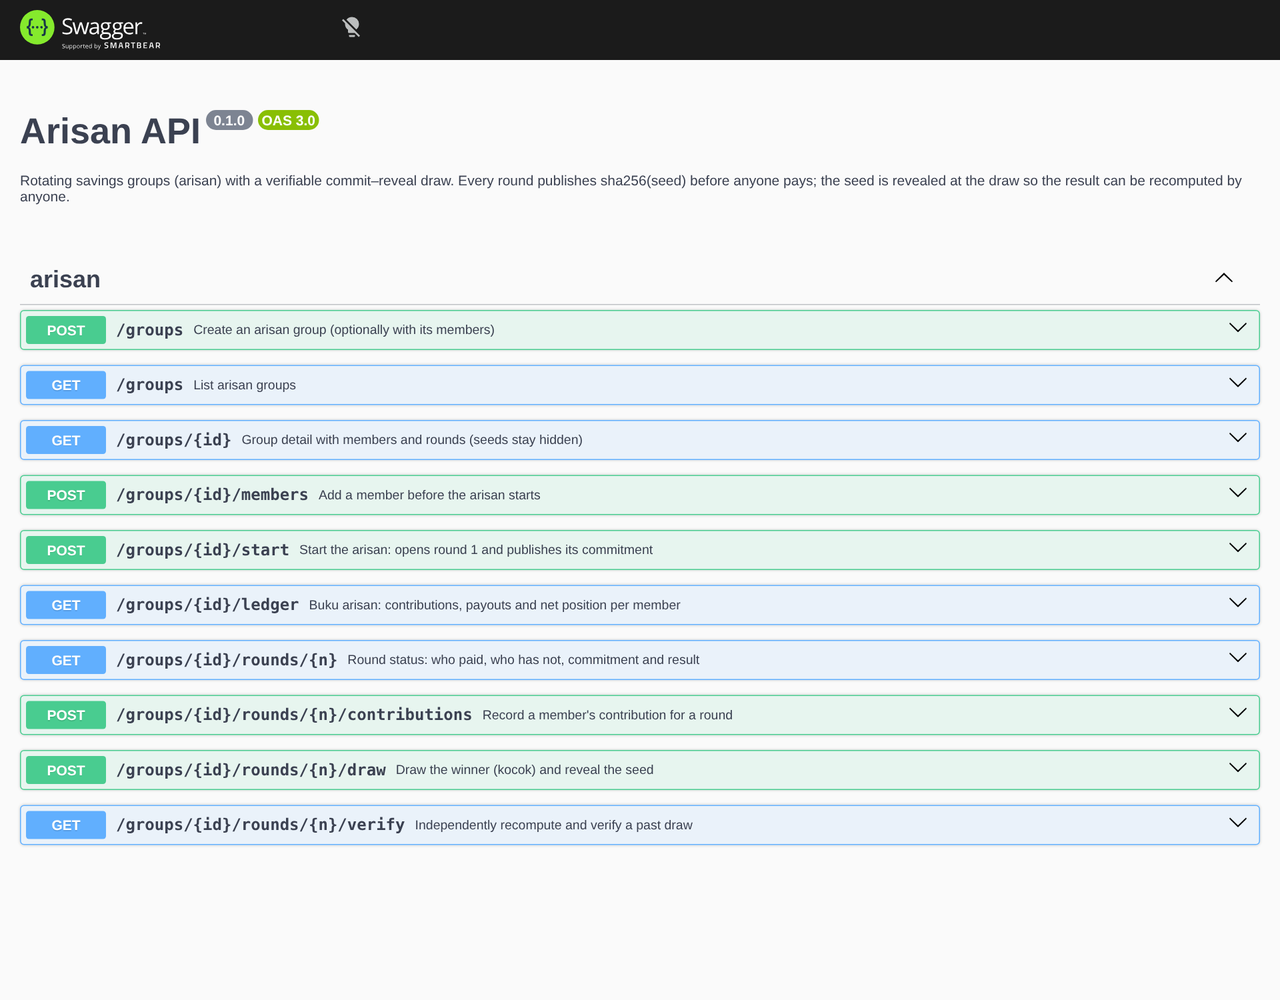
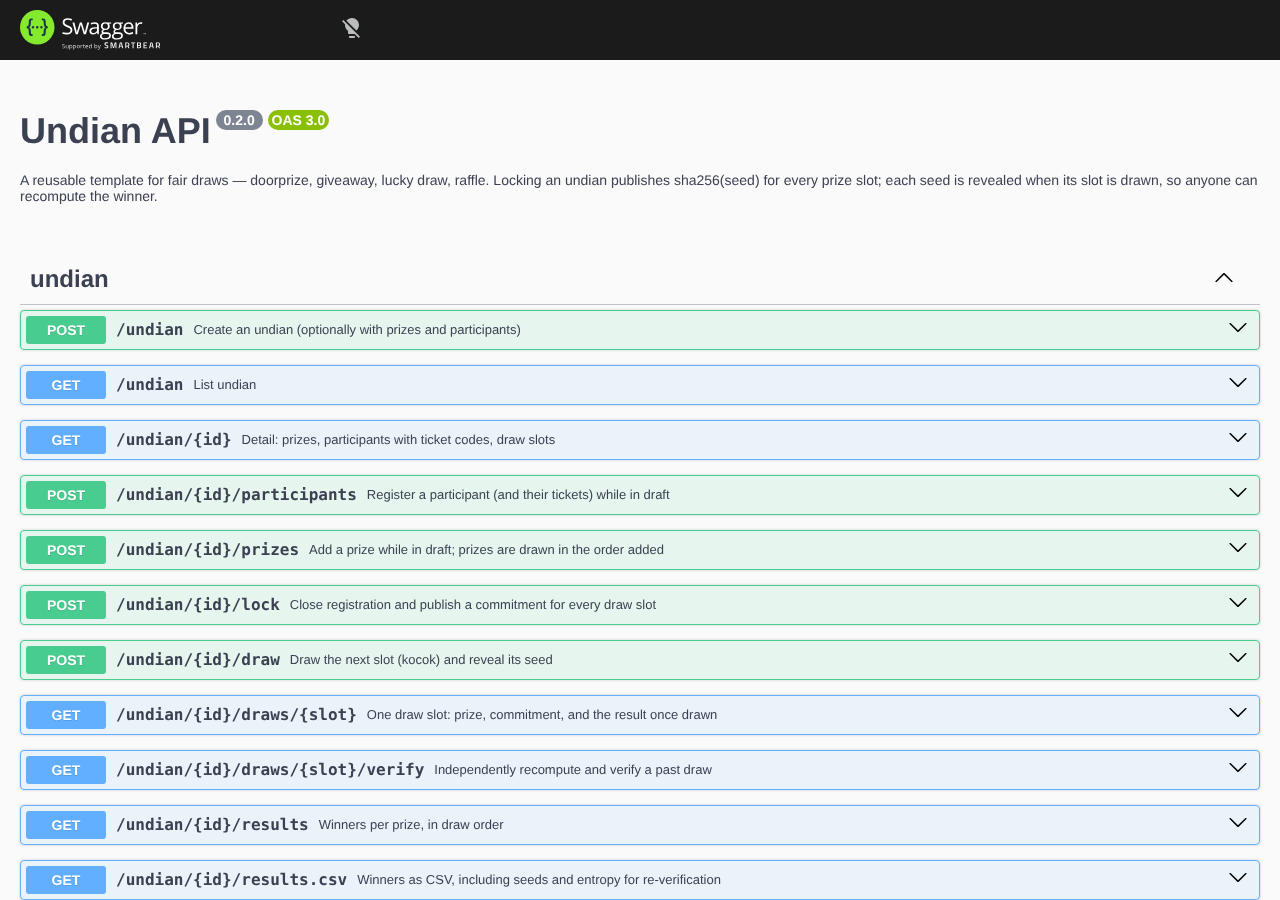
docs: README and roadmap for the undian template, new Swagger screenshot

Changed region(s): [[0.0, 0.0, 1.0, 1.0]]

diff --git a/README.md b/README.md
@@ -1,39 +1,61 @@
-# arisan
+# undian
 
-**A REST API for *arisan* — Indonesian rotating savings groups — with a draw anyone can verify.**
+**A ready-to-use template for fair draws: doorprizes, giveaways, lucky draws and raffles.
+Anyone can check the result afterwards.**
 
-In an arisan, every member pays the same amount each round and one member takes the whole pot,
-until everybody has won exactly once. The weak spot has always been the *kocok* (the draw):
-names on rolled-up paper in a glass, run by the organiser. `arisan` keeps the books and makes
-the draw **provably fair** with a commit–reveal scheme.
+Every *undian* has the same weak spot: the draw itself. Rolled-up papers in a jar, a spinning wheel
+on someone's laptop, "the system picked it". `undian` is a small REST API you can fork for any
+event. It keeps the prizes, participants and tickets, and it makes every draw **provably fair**
+with a commit–reveal scheme.
 
 ![Swagger UI](docs/swagger.png)
 
 ## How the fair draw works
 
 ```
-round opens   server picks a random 256-bit seed, publishes only  commitment = sha256(seed)
-members pay   nobody can change the seed any more — the commitment is public
-draw          members supply public entropy (e.g. numbers shouted at the meeting)
-              digest  = HMAC-SHA256(key = seed, "arisan-v1|round|entropy|sorted eligible ids|attempt")
-              index   = first 64 bits of digest mod #eligible   (rejection sampling → no modulo bias)
-              winner  = eligible[index]; seed is revealed
-verify        anyone checks sha256(seed) == commitment and recomputes the winner
+lock        registration closes. One prize unit = one draw slot.
+            For every slot the server picks a random 256-bit seed and publishes only
+            commitment = sha256(seed). From now on nobody can change the seeds.
+draw        the audience supplies public entropy, e.g. numbers shouted in the room
+            digest = HMAC-SHA256(key = seed, "undian-v1|slot|entropy|sorted ticket codes|attempt")
+            index  = first 64 bits of digest mod #eligible tickets   (rejection sampling, so no modulo bias)
+            winner = tickets[index]; this slot's seed is revealed
+verify      anyone checks sha256(seed) == commitment and recomputes the winner
 ```
 
-The organiser can't pick the winner (the seed was fixed before the entropy was known), and the
-members can't either (they don't know the seed). `GET /groups/:id/rounds/:n/verify` returns every
-input and intermediate value; the e2e test recomputes a draw with nothing but `node:crypto`.
+The organiser can't pick the winner, because the seed was fixed before the entropy was known.
+The audience can't pick it either, because they don't know the seed. Every slot has its own seed,
+so revealing one draw tells nobody anything about the next one.
+`GET /undian/:id/draws/:slot/verify` returns every input and intermediate value. The e2e test
+recomputes a draw using nothing but `node:crypto`.
 
 ## Features
 
-- Groups with weekly or monthly rounds (month-end aware: 31 Jan → 28 Feb → 31 Mar) and an optional organiser fee.
-- Contributions per round; the draw is refused until everyone has paid (`409` lists who hasn't).
-- Each member wins exactly once; the group finishes automatically after the last round.
-- **Buku arisan** ledger: contributed, received, net position and what is still owed, per member.
-- Validation with **Zod**; the same schemas generate the **OpenAPI** docs at `/docs`.
-- Real Postgres semantics (constraints, enums, transactions, `SELECT … FOR UPDATE`) via **PGlite**,
-  Postgres compiled to WebAssembly — no database server to install, in-memory for tests, on disk in dev.
+- **Prizes in draw order.** Each prize can have a quantity (e.g. 3× voucher). Small prizes usually go first and the grand prize last.
+- **Tickets.** A participant can hold several tickets (`tickets: 3` gives 3× the chance).
+  Codes are sequential with a prefix you choose: `T0001`, `DP0042`, …
+- **One prize per person** by default. Set `allowMultipleWins: true` for giveaways where every ticket counts.
+- **Lock** checks that the draw can finish: you need at least as many participants (or tickets) as prize units.
+- **Results** come as JSON per prize, or as **CSV** with the seed and entropy of every draw,
+  so the results sheet can be re-verified offline.
+- **Cek nomor undian:** `GET /undian/:id/tickets/:code` shows who owns a ticket and what it won.
+- Input is validated with **Zod**, and the same schemas generate the **OpenAPI** docs at `/docs`.
+- The database is **PGlite**, Postgres compiled to WebAssembly, so you get real Postgres
+  constraints, enums, transactions and `SELECT … FOR UPDATE` without installing a database
+  server. It runs in memory for tests and on disk in dev.
+
+## Use it as a template
+
+| Event | Settings |
+|---|---|
+| Doorprize at a 17 Agustus / office party | default: one prize per person, 1 ticket each |
+| Giveaway on social media | `allowMultipleWins: true`, tickets = number of valid entries |
+| Lucky draw for customers | `ticketPrefix: "LD"`, tickets = number of purchases |
+| Arisan (who gets the pot this round) | one prize of quantity 1 per meeting, members as participants |
+
+To make it your own, start with the names and texts in `src/bootstrap.ts` and the defaults in
+`src/undian/dto.ts`. The draw (`src/draw/draw.ts`) is pure and has no I/O, so you can reuse it
+anywhere.
 
 ## Stack
 
@@ -41,14 +63,13 @@ NestJS 11 · Drizzle ORM · PGlite · Zod 4 · Swagger · Jest + Supertest · Bi
 
 ```
 src/
-├── draw/draw.ts            commit–reveal draw, unbiased index, verification (pure, no I/O)
-├── common/schedule.ts      due dates, payout & fee
-├── common/zod.pipe.ts      Zod validation pipe + Zod → OpenAPI
-├── db/schema.ts            Drizzle schema (groups, members, rounds, contributions)
-├── db/database.module.ts   PGlite + migrations as a Nest provider
-└── groups/                 controller, service, DTO schemas
-drizzle/                    generated SQL migrations
-test/arisan.e2e-spec.ts     full arisan lifecycle over HTTP against in-memory Postgres
+├── draw/draw.ts              commit–reveal draw, unbiased index, verification (pure, no I/O)
+├── common/zod.pipe.ts        Zod validation pipe + Zod → OpenAPI
+├── db/schema.ts              Drizzle schema (undian, participants, tickets, prizes, draws)
+├── db/database.module.ts     PGlite + migrations as a Nest provider
+└── undian/                   controller, service, DTO schemas, CSV export
+drizzle/                      generated SQL migrations
+test/undian.e2e-spec.ts       full doorprize lifecycle over HTTP against in-memory Postgres
 ```
 
 ## Run
@@ -56,29 +77,36 @@ test/arisan.e2e-spec.ts     full arisan lifecycle over HTTP against in-memory Po
 ```bash
 npm install
 npm run dev        # http://localhost:3000, Swagger at /docs, data in ./data/pglite
-npm run demo       # in another terminal: creates a group, collects, draws and verifies two rounds
-npm test           # 20 tests (unit + e2e)
+npm run demo       # in another terminal: creates a doorprize, locks it, draws and verifies every prize
+npm test           # 21 tests (unit + e2e)
 ```
 
 Example:
 
 ```bash
-curl -X POST localhost:3000/groups -H 'content-type: application/json' -d '{
-  "name": "Arisan PKK RT 05", "contribution": 100000, "frequency": "monthly", "adminFeePct": 2.5,
-  "members": [{"name": "Bu Sri"}, {"name": "Bu Ani"}, {"name": "Pak Budi"}]
+curl -X POST localhost:3000/undian -H 'content-type: application/json' -d '{
+  "name": "Doorprize 17 Agustus RT 05",
+  "prizes": [{"name": "Payung", "quantity": 2}, {"name": "Sepeda"}],
+  "participants": [{"name": "Bu Sri"}, {"name": "Pak Budi", "tickets": 2}, {"name": "Mbak Rina"}]
 }'
 ```
 
 | Method | Path | |
 |---|---|---|
-| `POST` | `/groups` | create group (+ members) |
-| `POST` | `/groups/:id/members` | add member (before start) |
-| `POST` | `/groups/:id/start` | start, open round 1, publish commitment |
-| `GET` | `/groups/:id/rounds/:n` | paid / unpaid, commitment, result |
-| `POST` | `/groups/:id/rounds/:n/contributions` | record payment |
-| `POST` | `/groups/:id/rounds/:n/draw` | draw winner, reveal seed, open next round |
-| `GET` | `/groups/:id/rounds/:n/verify` | recompute & verify |
-| `GET` | `/groups/:id/ledger` | buku arisan |
+| `POST` | `/undian` | create (+ prizes, participants) |
+| `POST` | `/undian/:id/participants` | register participant + tickets (draft only) |
+| `POST` | `/undian/:id/prizes` | add prize (draft only) |
+| `POST` | `/undian/:id/lock` | close registration, publish commitments |
+| `POST` | `/undian/:id/draw` | draw the next slot, reveal its seed |
+| `GET` | `/undian/:id/draws/:slot` | one slot: prize, commitment, result |
+| `GET` | `/undian/:id/draws/:slot/verify` | recompute & verify |
+| `GET` | `/undian/:id/results` · `results.csv` | winners per prize |
+| `GET` | `/undian/:id/tickets/:code` | cek nomor undian |
+
+## History
+
+This project started as `arisan`, an API for rotating savings groups. The draw turned out to be the
+interesting part, so it was generalised into a template for any undian (v0.2.0).
 
 See [ROADMAP.md](ROADMAP.md).
 

diff --git a/ROADMAP.md b/ROADMAP.md
@@ -1,21 +1,25 @@
 # Roadmap
 
 ## Next
-- [ ] **Auth & roles** — organiser vs. member tokens; members can only see their own groups.
-- [ ] **Late payments** — grace period, late fee (denda) and "talangan" (organiser covers, member repays).
-- [ ] **Swap / sell a slot** (*jual kocokan*) — a winner-to-be trades their turn, with both parties' consent.
-- [ ] **Fixed order arisan** (urutan tetap) as an alternative to random draws.
-- [ ] Public, read-only verification page (static HTML) that runs the check in the browser with WebCrypto.
+- [ ] **Public verification page** (static HTML) that recomputes a draw in the browser with WebCrypto,
+      fed by `results.csv`.
+- [ ] **Import participants from CSV** (name, contact, tickets) — events usually start from a spreadsheet.
+- [ ] **Organiser auth**: an API key per undian for the write endpoints; reading stays public.
+- [ ] **Redraw when a winner is absent** (*hangus*): mark a slot forfeited and draw a replacement slot
+      with its own commitment, keeping the original on record.
+- [ ] **Live screen** for the venue: big-number display that polls `/draws/:slot` (SSE).
 
 ## Later
-- [ ] Payment proof upload and organiser confirmation.
-- [ ] WhatsApp-ready reminder text before each due date.
-- [ ] Use a public randomness beacon (e.g. drand) as additional entropy.
+- [ ] Use a public randomness beacon (e.g. drand round) as additional entropy.
+- [ ] Prize stock with images and sponsor names.
 - [ ] Switch storage to a real Postgres via `DATABASE_URL` (Drizzle node-postgres driver) for multi-instance deploys.
 - [ ] Event log (append-only) for an auditable history of every action.
+- [ ] Arisan preset: recurring meetings with contributions, built on top of the same draw.
 
 ## Done
-- [x] Groups, members, weekly/monthly schedule with month-end handling
-- [x] Contributions, draw gated on full payment, automatic next round / finish
+- [x] Prizes with quantity and draw order; participants with multiple tickets and prefixed codes
+- [x] Lock publishes one commitment per draw slot; per-slot seeds revealed one by one
+- [x] One prize per person by default, `allowMultipleWins` for giveaways
+- [x] Results as JSON and CSV (with seeds and entropy), ticket lookup
 - [x] Commit–reveal draw with unbiased sampling and a verification endpoint
-- [x] Ledger, OpenAPI docs from Zod schemas, e2e tests on in-memory Postgres
+- [x] OpenAPI docs from Zod schemas, e2e tests on in-memory Postgres
